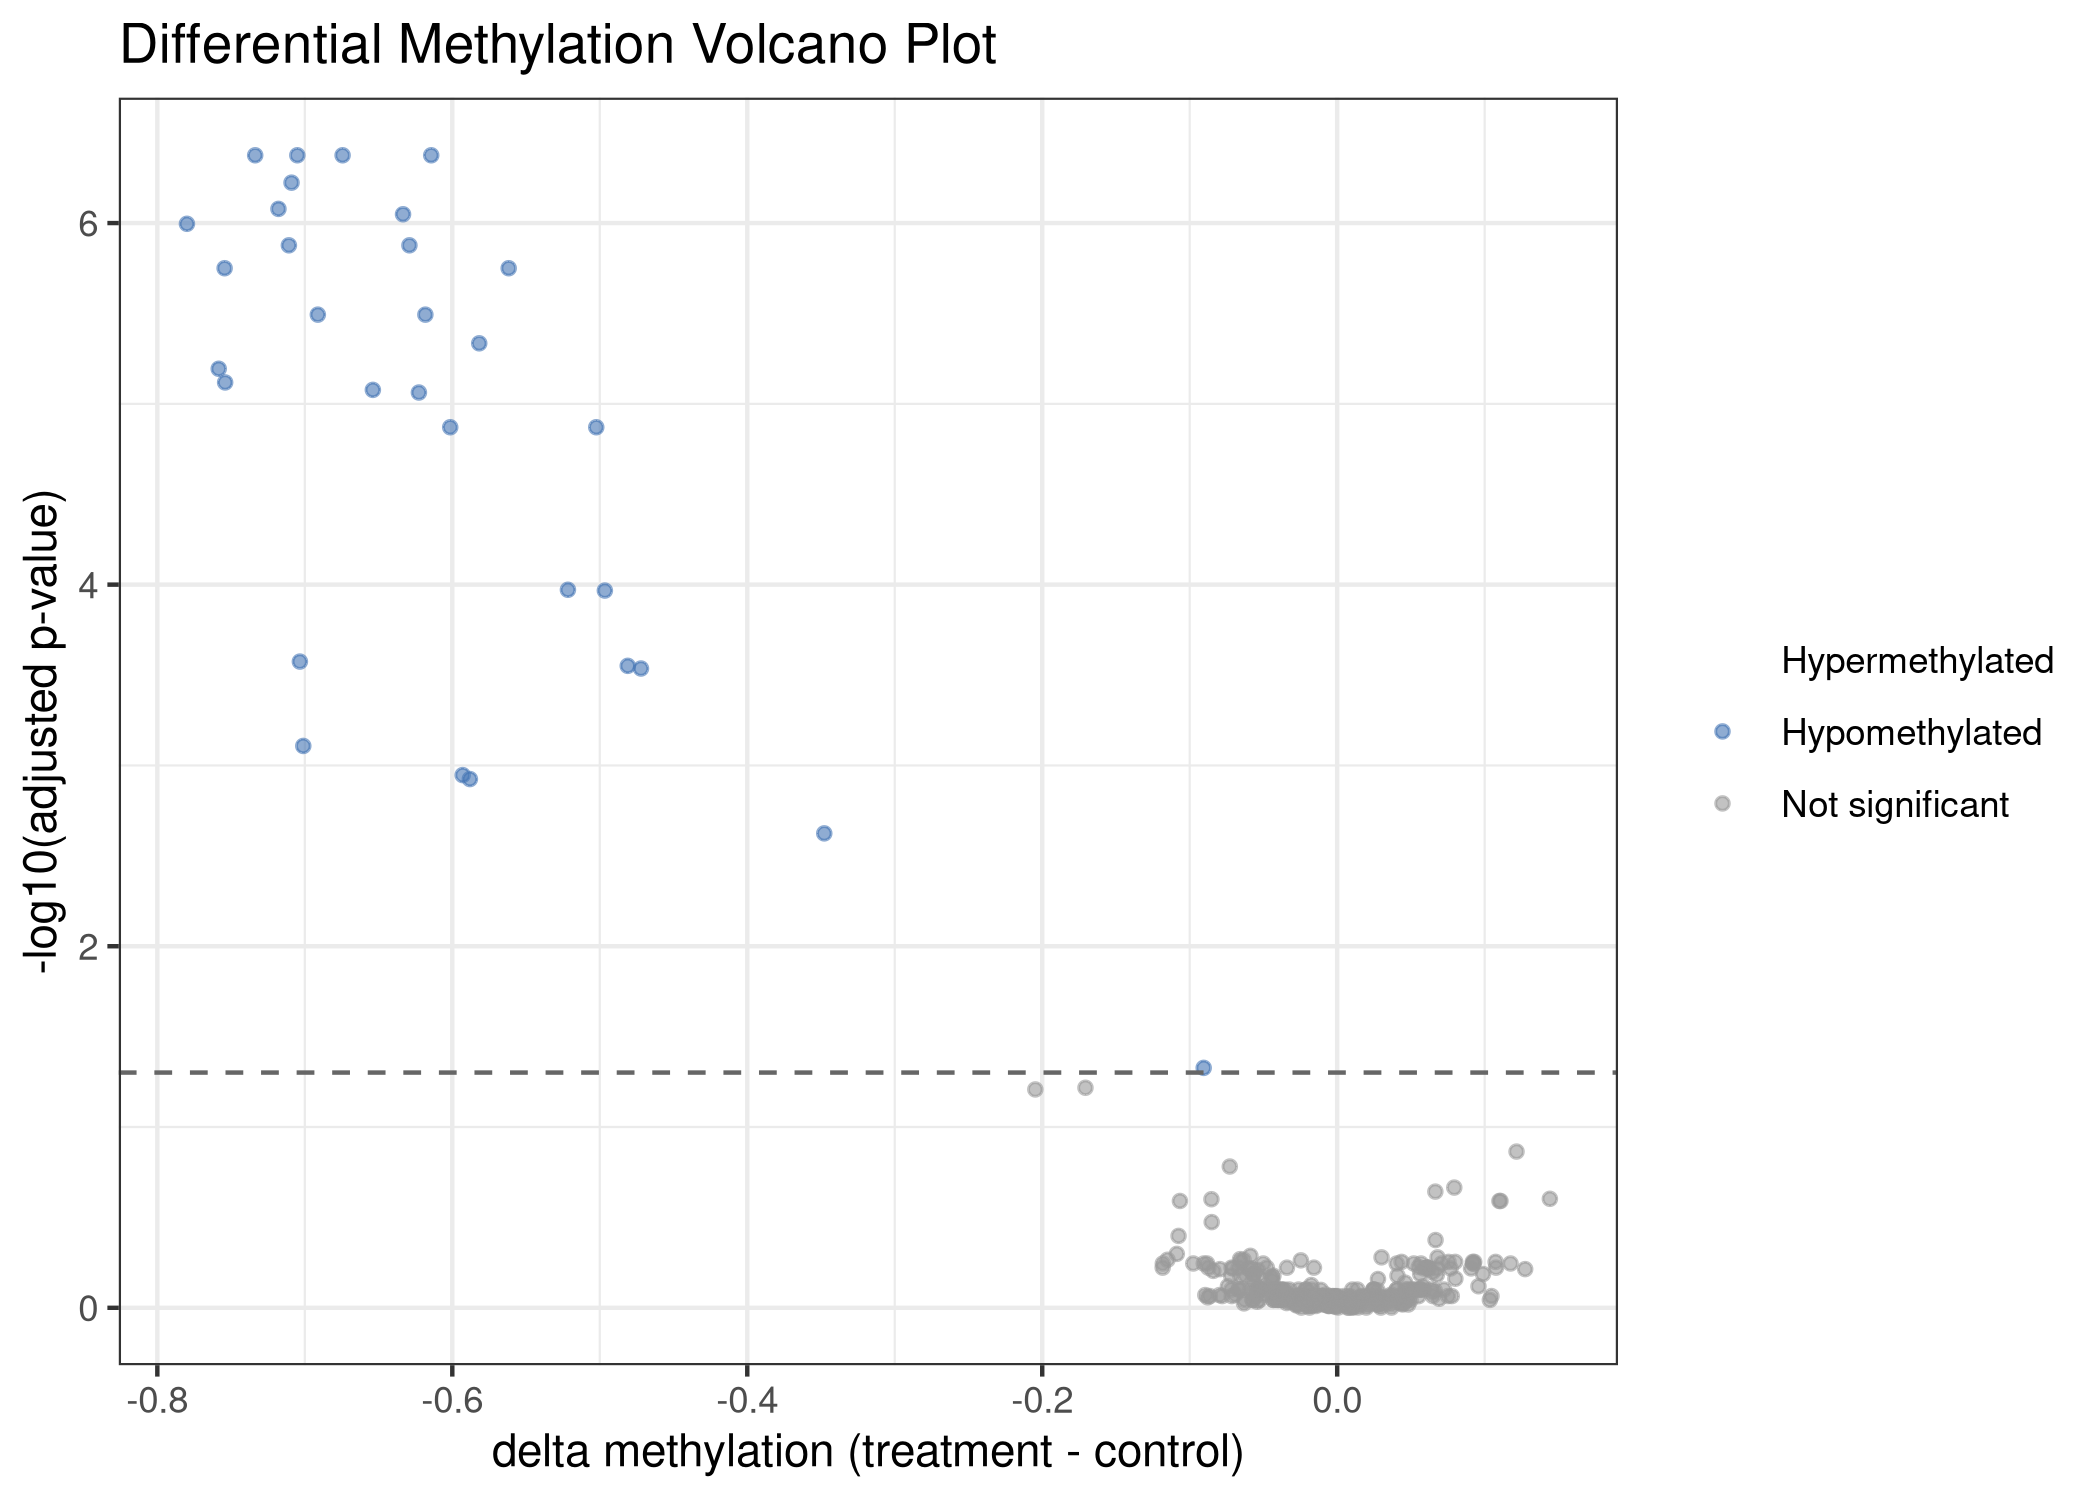
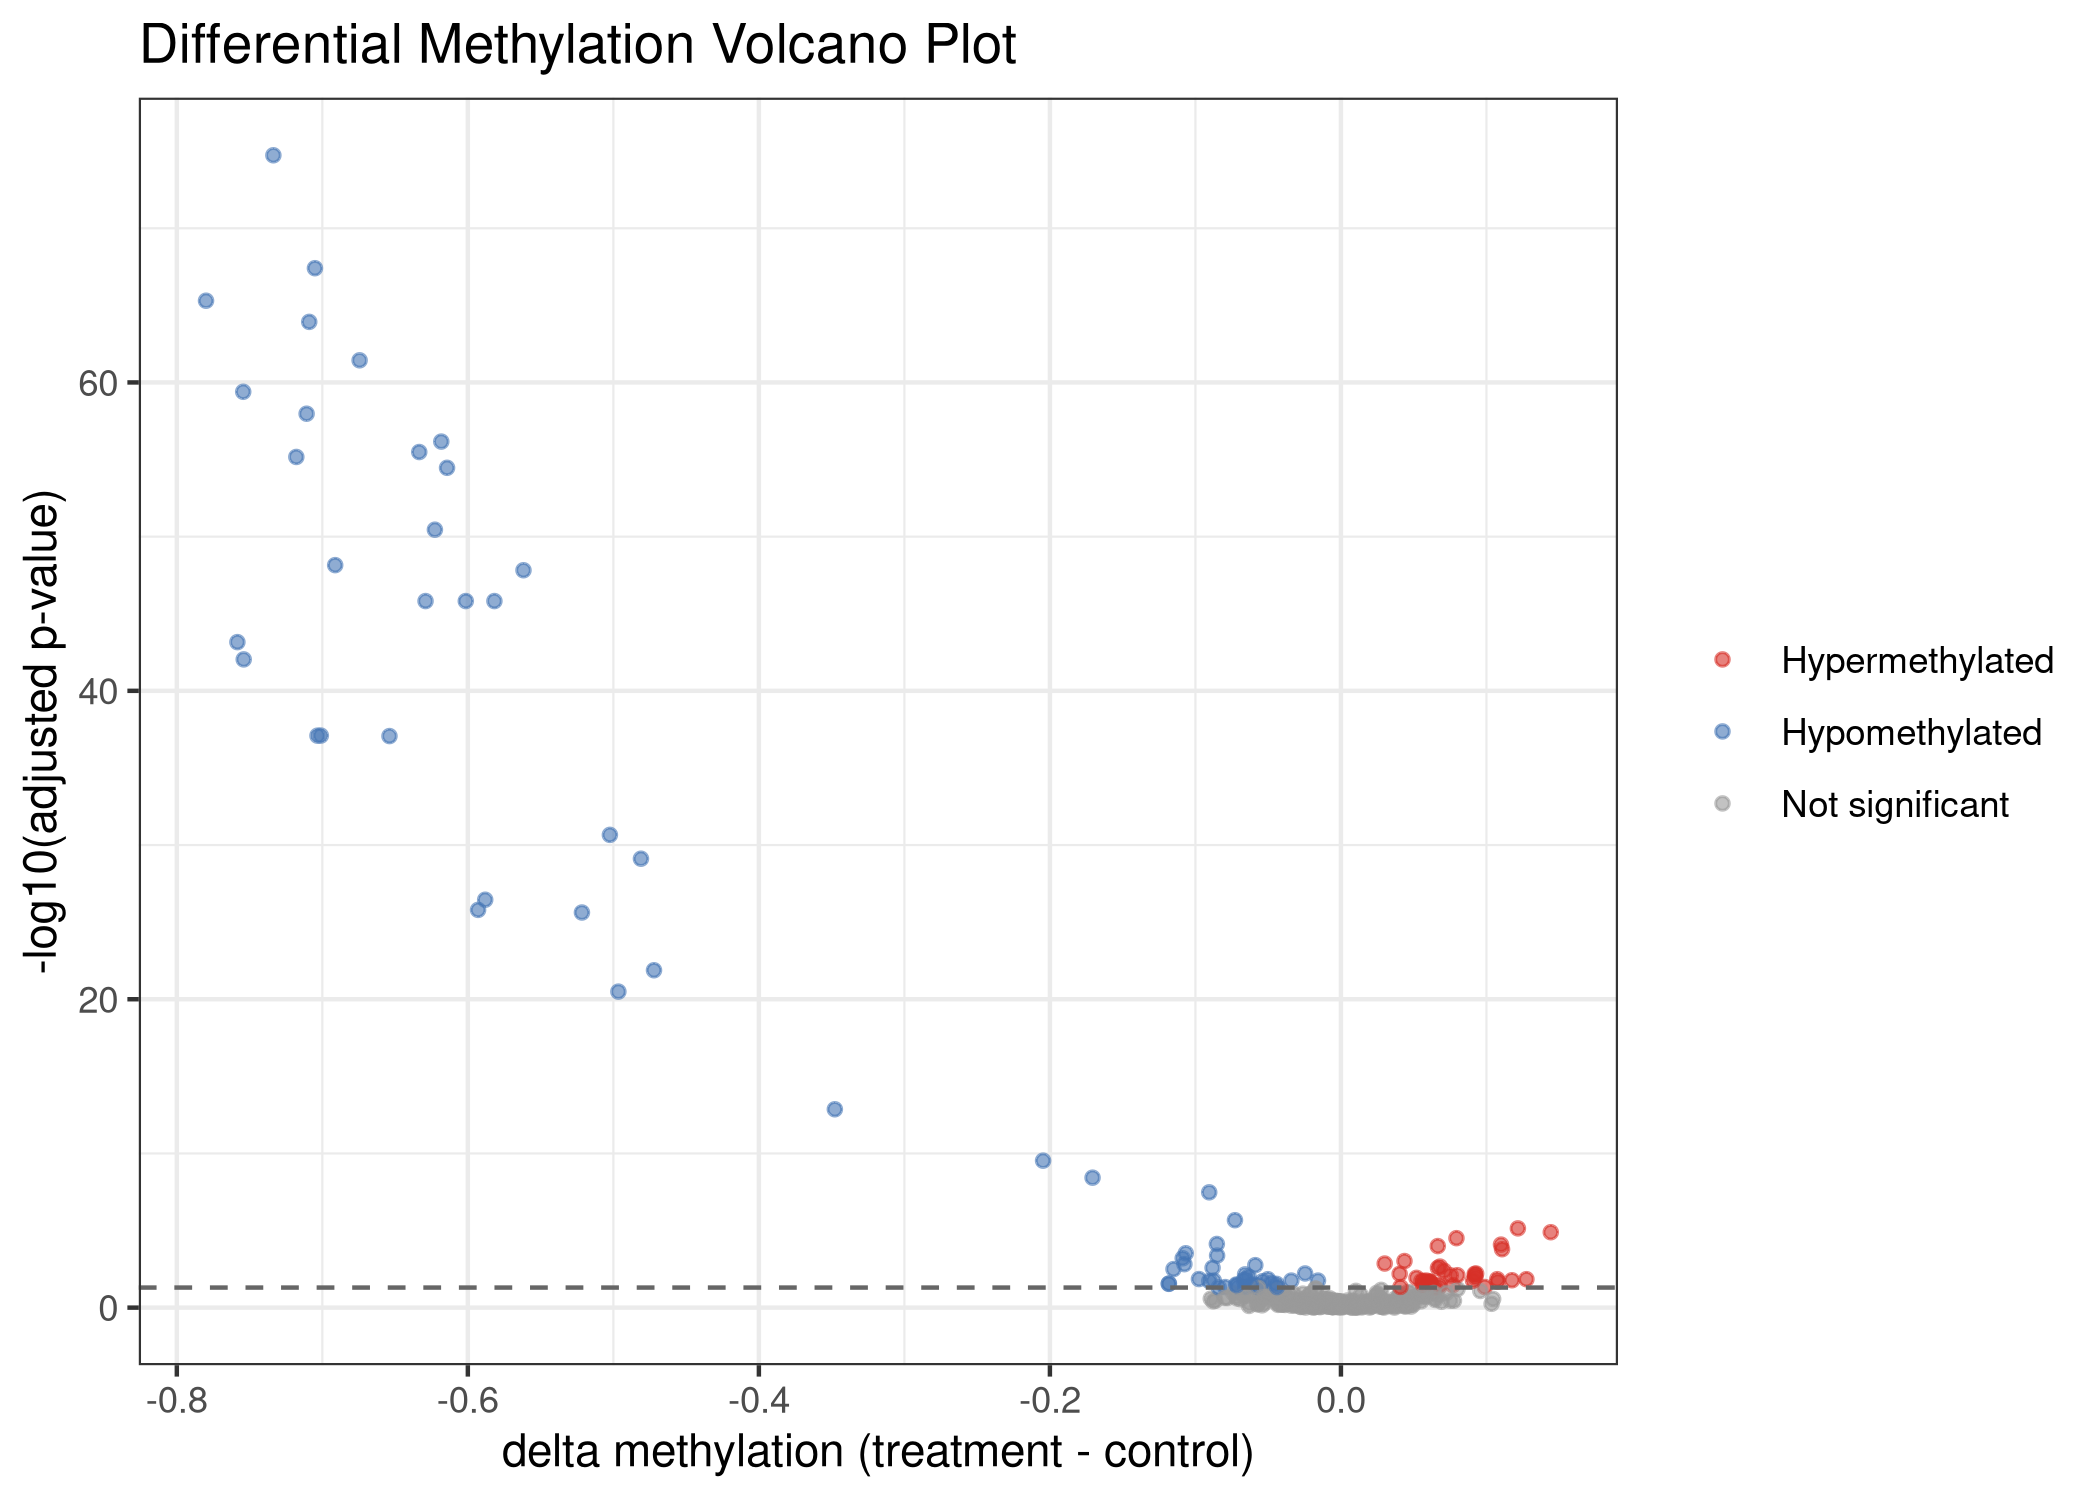
Use default methylKit in README example
Install and validate the optional methylKit backend locally, then restore the README quick start to the default diffMethyl() behavior and rerender README.md.

👾 Generated with [Letta Code](https://letta.com)

diff --git a/README.md b/README.md
@@ -236,8 +236,7 @@ deferred.
 cd_dm <- diffMethyl(
   comma_example_data,
   formula = ~condition,
-  mod_type = "6mA",
-  method = "quasi_f"
+  mod_type = "6mA"
 )
 
 res <- results(cd_dm)
@@ -246,19 +245,19 @@ sig <- filterResults(cd_dm, padj = 0.05, delta_beta = 0.2)
 cat("Total 6mA sites tested:", nrow(res), "\n")
 #> Total 6mA sites tested: 588
 cat("Significant sites:", nrow(sig), "\n")
-#> Significant sites: 30
+#> Significant sites: 31
 
 head(res[
   order(res$dm_padj),
   c("chrom", "position", "mod_context", "dm_delta_beta", "dm_padj")
 ])
 #>       chrom position mod_context dm_delta_beta      dm_padj
-#> 64  chr_sim    16504    6mA_GATC    -0.6142911 4.216853e-07
-#> 196 chr_sim    50176    6mA_GATC    -0.7336497 4.216853e-07
-#> 287 chr_sim    70003    6mA_GATC    -0.7050844 4.216853e-07
-#> 347 chr_sim    86016    6mA_GATC    -0.6743832 4.216853e-07
-#> 249 chr_sim    61440    6mA_GATC    -0.7090099 5.976969e-07
-#> 63  chr_sim    16384    6mA_GATC    -0.7178796 8.347795e-07
+#> 196 chr_sim    50176    6mA_GATC    -0.7336497 1.849154e-75
+#> 287 chr_sim    70003    6mA_GATC    -0.7050844 3.896483e-68
+#> 260 chr_sim    63550    6mA_GATC    -0.7799241 5.006897e-66
+#> 249 chr_sim    61440    6mA_GATC    -0.7090099 1.178364e-64
+#> 347 chr_sim    86016    6mA_GATC    -0.6743832 3.661541e-62
+#> 9   chr_sim     2180    6mA_GATC    -0.7543758 4.024452e-60
 ```
 
 Effect sizes are reported on the beta scale, and multiple-testing
@@ -396,13 +395,13 @@ resultLayers(cd_dm)
 #> 1  diffMethyl  diffMethyl differential_methyla..  diffMethyl       TRUE
 #>        method     formula   reference   treatment     mod_context
 #>   <character> <character> <character> <character> <CharacterList>
-#> 1     quasi_f  ~condition     control   treatment                
+#> 1   methylkit  ~condition     control   treatment
 #>          mod_type           motif p_adjust_method min_coverage     alpha
 #>   <CharacterList> <CharacterList>     <character>    <integer> <numeric>
 #> 1             6mA                              BH            5       0.5
 #>                           result_cols              timestamp package_version
 #>                       <CharacterList>            <character>     <character>
-#> 1 dm_pvalue,dm_padj,dm_delta_beta,... 2026-07-01 06:01:07 ..           0.2.0
+#> 1 dm_pvalue,dm_padj,dm_delta_beta,... 2026-07-01 01:11:13 ..           0.2.0
 ```
 
 Raw evidence assays are treated as canonical input evidence.
@@ -462,26 +461,26 @@ Vignettes:
 
 ## Current status and limitations
 
-| Area | Status |
-|----|----|
-| Package version | `0.2.0` development baseline |
-| Distribution | GitHub only; not yet submitted to Bioconductor |
-| Primary input | modkit pileup bedMethyl |
-| Optional inputs | Dorado BAM with MM/ML tags; Megalodon legacy output |
-| Differential methylation | One two-level design variable for v1 |
-| Example data | Synthetic, deterministic, useful for tests and tutorials |
-| Real-data validation | Planned; depends on selecting a redistributable bacterial dataset |
-| Performance evidence | Planned before broader release confidence |
+| Area                     | Status                                                            |
+|--------------------------|-------------------------------------------------------------------|
+| Package version          | `0.2.0` development baseline                                      |
+| Distribution             | GitHub only; not yet submitted to Bioconductor                    |
+| Primary input            | modkit pileup bedMethyl                                           |
+| Optional inputs          | Dorado BAM with MM/ML tags; Megalodon legacy output               |
+| Differential methylation | One two-level design variable for v1                              |
+| Example data             | Synthetic, deterministic, useful for tests and tutorials          |
+| Real-data validation     | Planned; depends on selecting a redistributable bacterial dataset |
+| Performance evidence     | Planned before broader release confidence                         |
 
 Roadmap:
 
-| Version | Phase | Status |
-|----|----|----|
-| 0.2.0 | Schema v2, commaKit rename, result layers, assay provenance | Done |
-| 0.2.x | Test quality, parser hardening, docs synchronization | In progress |
-| 0.x.y | Real-data examples, performance benchmarks, Bioconductor hardening | Planned |
-| 0.99.0 | Bioconductor submission version | Future |
-| 1.0.0 | Stable public release after external confidence | Future |
+| Version | Phase                                                              | Status      |
+|---------|--------------------------------------------------------------------|-------------|
+| 0.2.0   | Schema v2, commaKit rename, result layers, assay provenance        | Done        |
+| 0.2.x   | Test quality, parser hardening, docs synchronization               | In progress |
+| 0.x.y   | Real-data examples, performance benchmarks, Bioconductor hardening | Planned     |
+| 0.99.0  | Bioconductor submission version                                    | Future      |
+| 1.0.0   | Stable public release after external confidence                    | Future      |
 
 ## Support
 
